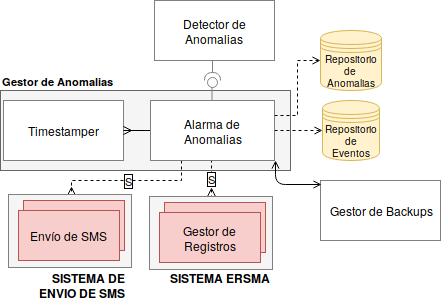
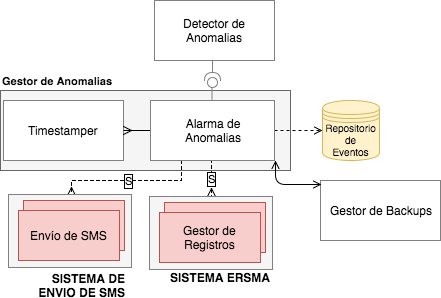
Finishing up

diff --git a/tp2/docs/informe.tex b/tp2/docs/informe.tex
@@ -530,7 +530,7 @@ El Detector de Anomalías procesa los datos provistos por el Persistidor de Medi
   \caption{Diagrama de arquitectura del Gestor de Anomalías.}
 \end{figure}
 
-Al recibir datos de anomalías detectadas desde el Persistidor de Anomalías, la Alarma de Anomalías se ocupa de notificar al Jefe de Operaciones del correspondiente yacimiento de que se ha producido una anomalía. También se envía el registro al Sistema del ERSMA. Estas dos conexiones externas se hacen utilizando un cifrado de clave simétrica, cuya clave podría estar en un repositorio o hardcodeado en la misma alarma. A los datos luego se les asigna un timestamp y son guardados en el Repositorio de Anomalías y en el Repositorio de Eventos. Para lograr una mayor disponibilidad y tener un sistema tolerante a fallas, los datos de anomalías también son enviados a un Gestor de Backups mediante un call asincronico. En caso de falla, los procesos del componente se reinician y buscan los datos sobre las ultimas fallas que han ocurrido y no han sido reportadas desde este repositorio.
+Al recibir datos de anomalías detectadas desde el Persistidor de Anomalías, la Alarma de Anomalías se ocupa de notificar al Jefe de Operaciones del correspondiente yacimiento de que se ha producido una anomalía. También se envía el registro al Sistema del ERSMA. Estas dos conexiones externas se hacen utilizando un cifrado de clave simétrica, cuya clave podría estar en un repositorio o hardcodeado en la misma alarma. A los datos luego se les asigna un timestamp y son guardados en el Repositorio de Eventos. Para lograr una mayor disponibilidad y tener un sistema tolerante a fallas, los datos de anomalías también son enviados a un Gestor de Backups mediante un call asincronico. En caso de falla, los procesos del componente se reinician y buscan los datos sobre las ultimas fallas que han ocurrido y no han sido reportadas desde este repositorio.
 
 \subsection{Sistema de Monitoreo y Control} \label{monitoreo_y_control}
 
@@ -546,6 +546,8 @@ El Sistema de Monitoreo y control se ocupa de dar una interfaz unificada para lo
 Al suceder una alarma, el Jefe de Operaciones del yacimiento puede ingresar al sistema con su login y luego gestionar las alarmas mediante el Gestor de Alarmas. De esta manera el Jefe de Operaciones puede tomar una acción correctiva o reportar un falso positivo de la alarma. Al tomar una decisión se completa el informe correspondiente a la anomalía en el Repositorio de Eventos.
 
 Tomando en cuenta que el ministerio nos ha dicho que toda búsqueda realizada por un usuario se realiza nuevamente con una alta probabilidad, agregamos un Controlador de Cache entre el Buscador de Registros y los repositorios de Eventos y Anomalías para acelerar el tiempo de respuesta de las consultas.
+
+Por ultimo como parte del control del sistema se permite el ingreso y modificación de los pozos que se quieren considerar para la simulación y por lo tanto predicción mas acertada y mas a futuro. Para esto tenemos un Administrador de Pozos de Yacimientos que se encarga de controlar los pozos y los sensores registrados para el modelo de simulación. También controla ciertos parámetros de la simulación modificables por requerimiento. Este componente persiste las configuraciones en un repositorio que es el que va a usar el simulador SimOil para crear su modelo de simulación.
 
 \begin{figure}[H]
  \resizebox{\textwidth}{!}{
